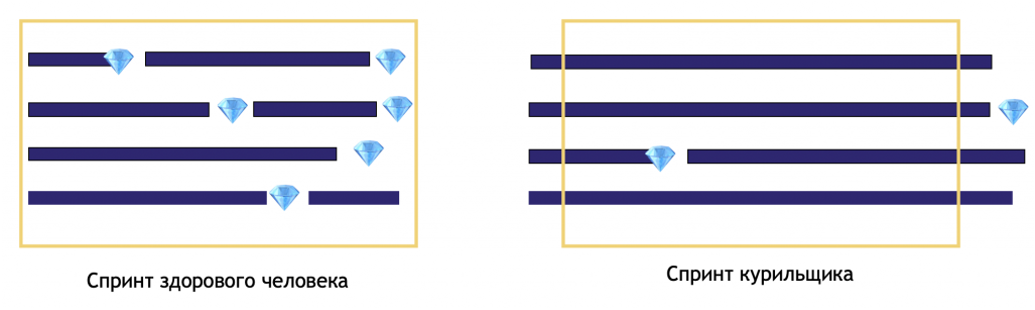
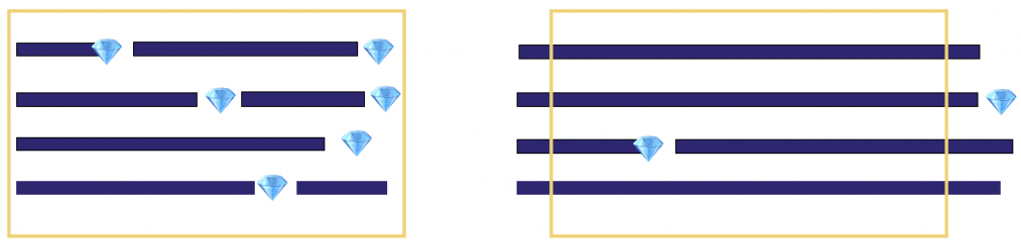
Crossfunctional team, selecting approach

diff --git a/docs/crossfunctionalteam.md b/docs/crossfunctionalteam.md
@@ -1,15 +1,15 @@
-# Cross-functinal Team
+# Cross-functional Team
 
 ## A problem we solve
 
 We have described the product concept with the AI Canvas. Now, it is time to begin its development. The team members' skills list is already there. Here are our heroes:
 
 * The Data Scientist (DS) will build the model and take care of the data.
-* The Backend Engineer (BE) will handle the infrastructure and automate the model when it is ready.
+* The Backend Engineer (BE) will handle the infrastructure and automate the model.
 
 You brief them and kick it off.
 
-Two months later. BE finished with the infrastructure, but the model is not ready yet. BE isn't the guy the world wants idle. It just so happens that the neighbour project has an urgent task for him.
+Two months later. BE finished with the infrastructure, but the model is not ready yet. BE isn't the guy the world wants idle. It just so happens that another project has an urgent task for him.
 
 Suddenly, DS gets results, and they are exciting. The model is ready. But BE is still on that project and needs a bit more time. DS isn't the guy the world wants idle, either.
 
@@ -25,34 +25,35 @@ So, this kind of management causes specific problems:
 
 * The project stays on hold while the participants finish their other tasks before switching to it.
 * Switches delay the release even more because participants forget the context and spend time recalling it.
-* Project relevance may drop to zero during implementation.
-* Changes that lead to redundancies accumulate over time.
-* Project participants may quit, and the project knowledge will go with them, too.
-* No one is responsible for the final business result.
+* Project relevance for customers may drop to zero during implementation.
+* During the project, changes in requirements accumulate, which leads to unnecessary rework.
+* Team members may quit, and the project knowledge will go with them, too.
+* No one feels responsible for the final business result.
 
 ## Cross-Functional Team
 
-Rather than split activities between departments, create a dedicated team with all the necessary skills. They will be responsible for the ultimate business result. We call such teams cross-functional.
+Rather than split activities between departments, create a fully dedicated team with all the necessary skills. They will be responsible for the ultimate business result. We call such teams cross-functional.
 
 !> A cross-functional team comprises people with different skill sets working towards a shared goal, implementing one plan, having mutual commitments, and sharing responsibility.
-
 
 Distinguishing features of such a team:
 
 * One goal. The team is responsible for the business outcome rather than building and deploying the model to production.
-* The team has experts with all the skills necessary to achieve this goal.
-* One plan (the backlog). The team designs the product and defines the roadmap together.
-* Team members have mutual commitments. They support each other, share their workload, and review each others’ work.
-* Everyone meets (for planning, stand-ups, retrospectives). The team regularly meets to sync their progress and refine the plan.
-* The team is permanent. It exists for a long time, and its members are fully dedicated to it.
+* The team has experts with all the necessary skills to achieve this goal.
+* One plan (backlog). The team designs the product and defines the plan together.
+* Team members have mutual commitments. They support each other, share their workload, and review each others' work.
+* Joint meetings (for planning, stand-ups, retrospectives). The team regularly meets to sync their progress and refine the plan.
+* The team is stable. This kind of team works together on the same project full time and is not dissolved when the project is completed. Instead, they are given a new one.
 
 ## T-Shape Professional
 
-It’s easy to say. One team should be responsible for the result. But how will it work? Should it have both DS and BE? Will there be an adequate workload for both? For instance, what will BE do while DS is building a model?
+It's easy to say that one team should be responsible for the result. But how will it work? Should it have both DS and BE? Will there be an adequate workload for both? For instance, what will BE do while DS is building a model?
 
-Team members will be able to assist each other significantly if we remove artificial function separation between them.
+Team members will be able to assist each other significantly if we remove the artificial function barrier between them.
 
-Each team member, as experts in their field who know related areas well enough to help others, should be a T-shaped professional.
+As experts in their field who know related areas well enough to help others, each team member should be a T-shaped professional.
+
+Each team member must be a T-shaped professional: deeply versed in their area and good enough in related areas to help other team members.
 
 ![T-shape specialization](_images/crossfunctional-tshape.png)
 
@@ -64,27 +65,27 @@ Here are the typical objections:
 
 **A backend engineer is not qualified to build models.**
 
-> Rather than a 100% role switch, we're talking about mutual assistance. What about helping DS to create a complex feature, write an auto-test, or help with infrastructure? If an ongoing DS task blocks others, any help will speed up the process and reduce the project duration.
+> Rather than a 100% role switch, we're talking about mutual assistance. What about helping DS to create a complex feature, write an auto-test, or help with infrastructure? If an ongoing DS task blocks others, any help will speed up the process and decrease the project duration.
 
 **DS wouldn't want to do a backend engineer job.**
 
-> Ask your team members if they are ready to help each other to reach their project goals faster. You will not encounter any resistance. People typically welcome teamwork. Even with no such experience, they will be ready to try it.
+> Ask your team members if they are ready to help each other reach their project goals faster. You will not encounter any resistance. People typically welcome teamwork. Even with no such experience, they will be ready to try it.
 
 **They are mathematicians, and they came here to write code. They are not oriented towards business goals.**
 
-> A common goal provides a sense of belonging to something greater. Teamwork ensures mutual support and helps combat impostor syndrome. Responsibility for the business outcome allows for greater decision-making autonomy. This drives team involvement and motivation.
+> A common goal provides a sense of belonging to something greater. Teamwork ensures mutual support and helps struggle impostor syndrome. Responsibility for the business outcome allows for greater decision-making autonomy and drives team involvement and motivation.
 
-**We have many ML projects. It’s unrealistic to assign each one a separate team.**
+**We have many ML projects. It's unrealistic to assign each one a separate team.**
 
-> We don't create teams around products; we pass products to product teams. A single stable cross-functional team can handle several ML projects. Cross-functionality enables such a team not merely to build and support a functioning model but to develop it, permanently improving its business results. A stable team secures long products' lifespan and high profitability.
+> We don't create teams around products; we pass products to product teams. A single stable cross-functional team can handle several ML projects/products. Cross-functionality enables such a team not merely to build and support a functioning model but to develop it, permanently improving its business results. A stable team secures long products' lifespan and high profitability.
 
-**How can team members share the load?**
+**How can team members exchange their work?**
 
 > Cross-functional team synchronization may not be that simple. It requires specific processes in place. We will consider Kanban in later chapters as one of the ways to organize a proper interaction in such a team.
 
 ## DS Team as a Service
 
-Single-player work on a business task is a way to burn out. If you have conditions that make cross-functional teams inefficient, use dedicated Data Science teams—even if they only consist of DS. We call such teams "DS as a service“. This setup encourages data scientists to help each other, do the code review, and provide support when needed.
+Single-player work on a business task is a way to burn out. If you have conditions that make cross-functional teams inefficient, use dedicated Data Science teams—even if they only consist of DS. We call such teams "DS as a service ". This setup encourages data scientists to help each other, do the code review, and provide support when needed.
 
 ## When cross-functional teams are not efficient
 
@@ -97,12 +98,12 @@ Let's see when DS as a Service makes more sense than the cross-functional team.
 
 A stable cross-functional team built around one or more products provides the following benefits:
 
-* It is responsible for the business result.
+* Team is responsible for the business result.
 * Team members are strongly motivated and involved.
 * The team support and strengthen the product during its entire lifecycle.
-* Close cooperation improves the team interaction, ensuring a better T2V (time to value) for the entire project duration.
+* Close collaboration improves the team interaction, ensuring a better T2V (time to value) for the entire project duration.
 
 ## Team leadership
 
 * The Product Manager/Product Owner is accountable for the business outcome in front of company management.
-* The Process Lead is responsible for the team's efficiency. They facilitates meetings and solves dependency issues, coaching and mentoring other team members.
+* The Process Lead (Scrum Master) is responsible for the team's efficiency. They facilitate meetings and solve dependency issues, coaching and mentoring other team members.

diff --git a/docs/selectingapproach.md b/docs/selectingapproach.md
@@ -2,45 +2,48 @@
 
 ## A Problem We Solve
 
-You've built the project team. It consists of one DS and one BE. How would it operate? You've talked with other team leaders in your company. Most of them use Scrum. You've looked into it, and it seems straightforward.
+You've built the project team. It consists of one DS and one BE. How would it operate? You've talked with other team leaders in your company. Most of them use Scrum. You've looked into it, and it seems pretty reasonable.
 
-## The Scrum Features
+## Scrum Features
 
 * The team splits the job into short time intervals called Sprints with a typical length of two weeks.
-* Each Sprint has a goal. A sprint is successful if the team reached it.
+* Each Sprint has a goal. A sprint is successful if the team reaches it.
 * A Sprint backlog consists of user stories. Each user story creates value for a user.
-* The user story starts in Sprint and ends when it finishes. More precisely, it should meet the Definition of Done criteria. It usually means that the team develops a user story, tests it, fixes all the bugs, and deploys it to stage or production.
+* The user story starts in Sprint and ends when it finishes. More precisely, it should meet the Definition of Done criteria. It usually means that the team develops a user story, tests it, fixes all the bugs and deploys it to stage or production.
 
 ## Why Scrum works
 
-* A sprint goal helps the team to focus on the result. Roughly speaking, it gives them something to brag about at the Sprint Review (the reporting meeting at the end of each Sprint).
+* A sprint goal helps the team to focus on the result. Roughly speaking, it gives it something to brag about at the Sprint Review (the reporting meeting at the end of each Sprint).
 * Short Time to Market. All the work, from start to deployment, takes one Sprint.
 * It simplifies the planning significantly. If the team finishes the Sprint backlog and doesn't drag the previous sprints' bugs into the next, the entire process runs like clockwork.
 
 ## What Could Go Wrong?
 
 Looks reasonable. You explain the rules to the team and launch your first Sprint.
+
 A few Sprints later, you notice several issues:
 
-* It is tough to set reasonable Sprint Goal. Even if formulated, it is almost impossible to reach by the end of the Sprint.
+* It is tough to set a reasonable Sprint Goal. Even if formulated, it is almost impossible to reach by the end of the Sprint.
 * The team has a pile of unfinished work by the end of each Sprint and moves it to the next one.
-* Sometimes the discovery nature of DS projects manifests itself, rendering the Sprint goal pointless and making finishing the Sprint pointless as well.
+* Sometimes, the discovery nature of DS projects manifests itself, rendering the Sprint goal pointless and making finishing the Sprint pointless as well.
 
-Scrum doesn't work as it works in other teams.
+Scrum doesn't work in Data Teams as it works in typical software engineeing teams.
 
 ## What is the Cause of These Problems?
 
-All these problems have one root cause. For most of hypotheses lifecycle is much longer than two weeks: typically 3-8 weeks from idea to deployment.
+All these problems have one root cause. Most hypotheses lifecycle is much longer than two weeks: typically 3-8 weeks from idea to deployment.
 
-This is the reason why using Sprints makes no sense. Sprint is a two-week period during which the team does valuable work from start to finish.
+Such a long lifecycle is the reason why using Sprints makes no sense. Sprint is a two-week period during which the team does valuable work from start to finish.
 
 The left figure shows the team accomplishing one or more jobs. The right figure shows when the average time needed to achieve a result valuable for business is longer than one Sprint.
 
 ![Scrum vs Kanban](_images/selectingapproach-scrumvskanban.png)
 
-So, why do so many DS teams stick to Scrum? There is a psychological factor. Each DS scrapes up enough tasks for two weeks to keep everyone busy — this provides a sense of control and satisfaction.
+So, why do so many DS teams stick to Scrum? I believe there is a psychological factor. Each team member is assigned enough tasks for two weeks to keep everyone busy — this provides a sense of control and satisfaction.
 
-One can expand the Sprint duration or use Sprint meetings for planning, abandoning the requirement to finish ongoing jobs before the next Sprint.
+How do data teams fix typical scrum problems?
+
+Some expand the Sprint duration up to two months. Others use Sprint meetings for planning, not even trying to finish ongoing jobs before the next Sprint.
 
 Both approaches reduce transparency. Over an extended period, nothing changes. Problem statuses remain the same, with no possibility of getting feedback.
 
